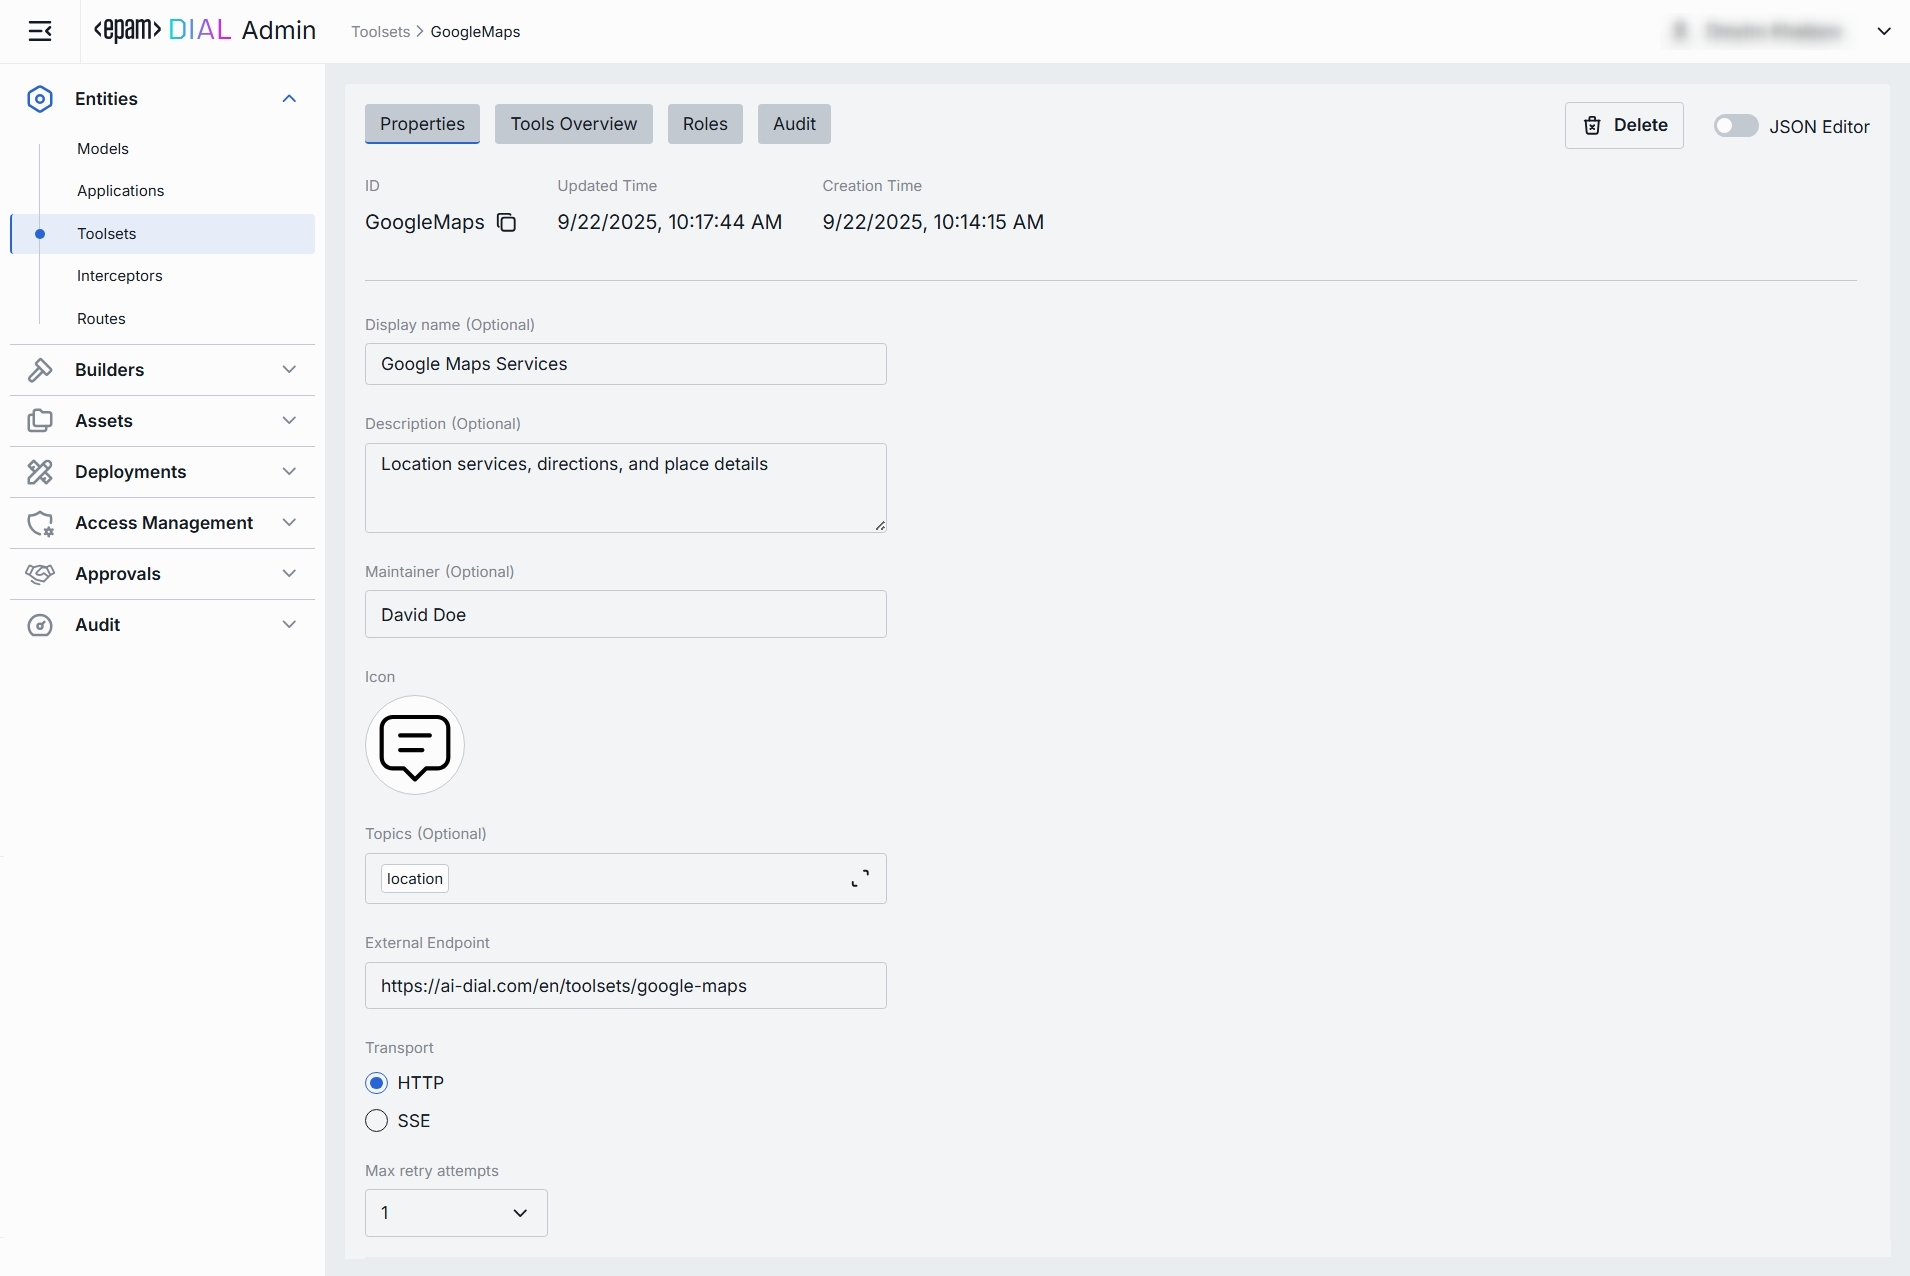
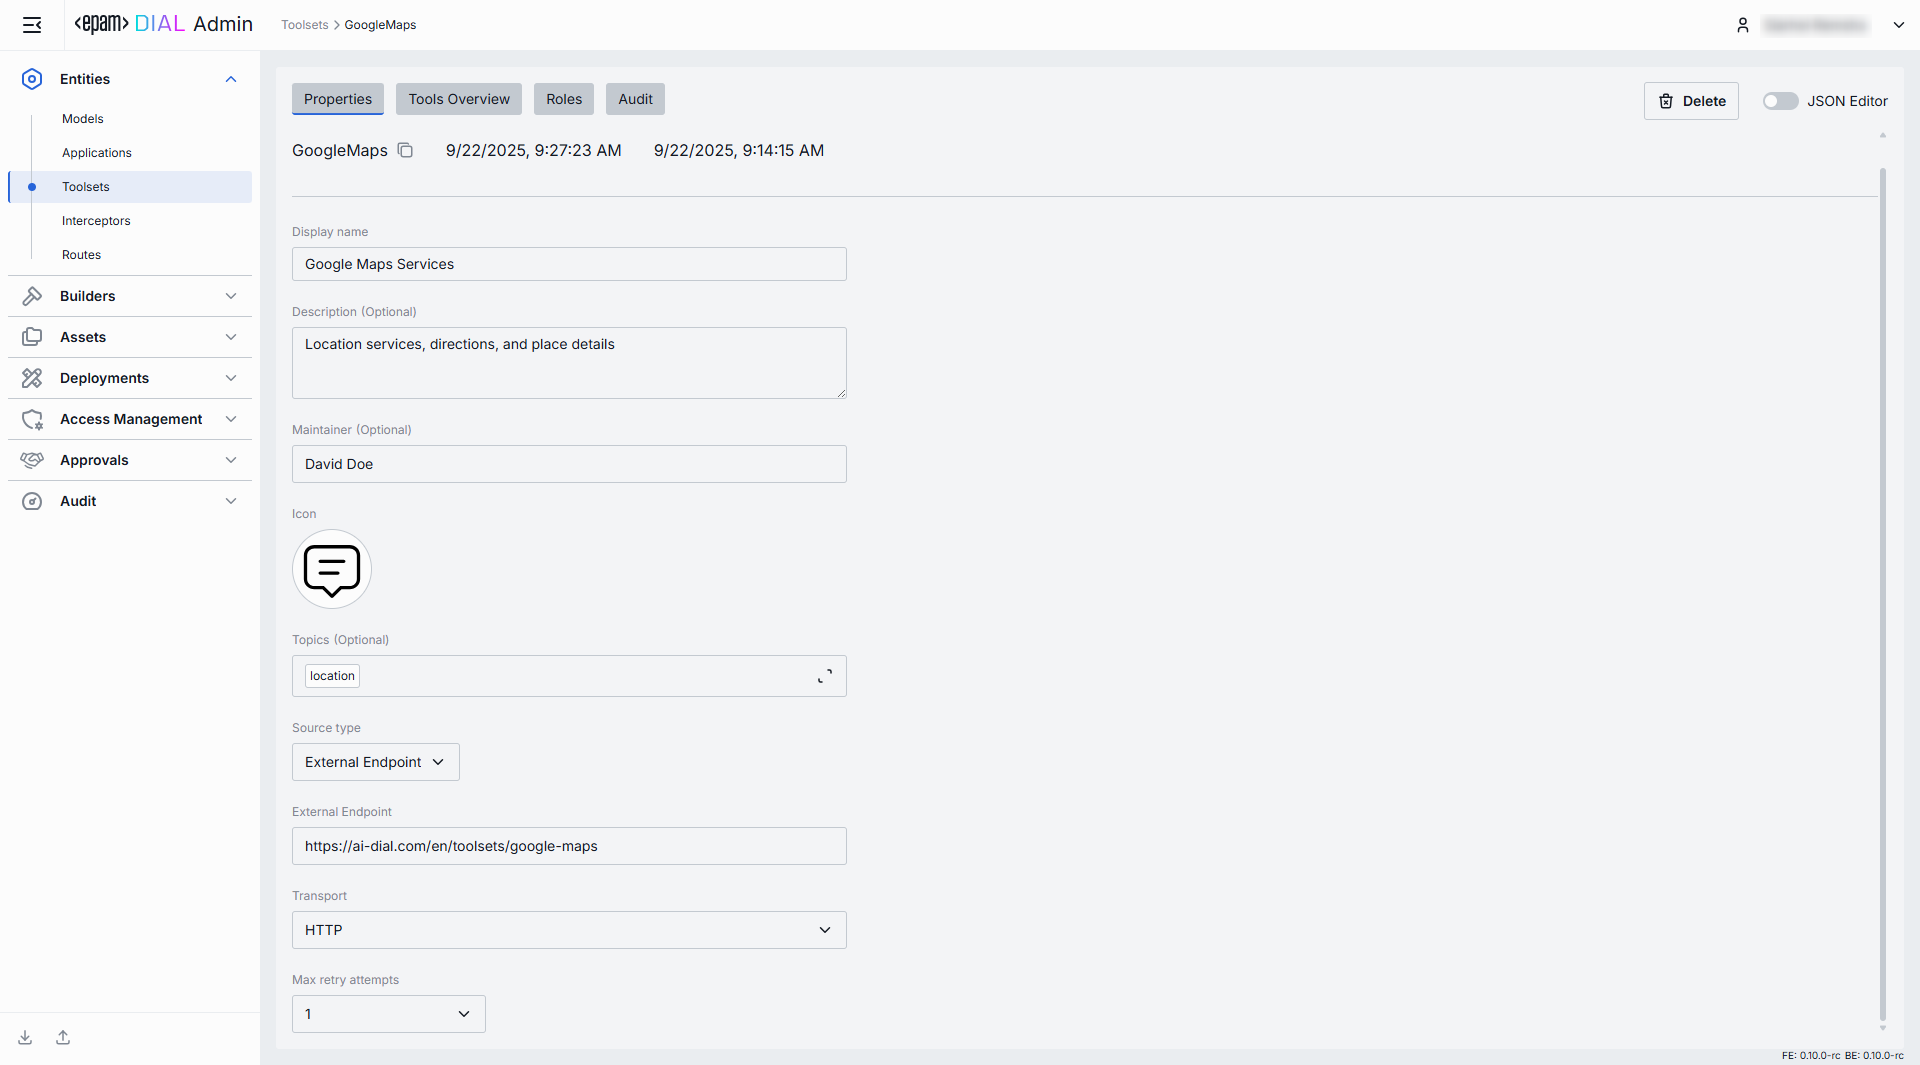
review toolsets

diff --git a/docs/tutorials/3.admin/entities-toolsets.md b/docs/tutorials/3.admin/entities-toolsets.md
@@ -2,26 +2,26 @@
 
 ## About Toolsets
 
-Toolsets allow your apps to interact with external services to perform specific actions. 
-This feature enables your QuickApps to call external functions and services, enhancing their capabilities and enabling more complex workflows.
+Toolsets allow applications to interact with external services (such MCP servers and REST APIs) to perform specific actions. 
 
-> Refer to the [QuickApps Configuration](/docs/tutorials/1.developers/4.apps-development/5.quick-app-configuration.md) page for more details on apps configuration.
+> Refer to the [QuickApps Configuration](/docs/tutorials/1.developers/4.apps-development/5.quick-app-configuration.md) page for more details on Quick Apps configuration and available toolsets.
 
-## Toolsets List
+## Toolsets Main Screen
 
-On the **Toolsets** page, you can find all toolsets existing in your DIAL instance. Here you can view, filter, and add new toolset definitions.
-
+On the **Toolsets** main screen, you can find all toolsets existing in your DIAL instance. Here you can view, filter, and add new toolset definitions.
 
 ![](img/109.png)
 
 ##### Toolsets grid
 
-| Field                     | Definition                                                                                                                                               |
-|---------------------------|----------------------------------------------------------------------------------------------------------------------------------------------------------|
-| **ID**                    | This is a unique key under the toolsets section of DIAL Admin.                                                                                           |
-| **Display Name**          | A user-friendly label for a toolset (e.g. GitHub, Google Maps).                                                                                          |
-| **Description**           | Free-text notes about this toolset’s purpose, capabilities, or any other relevant details.                                                               |
-| **Author**                | Contains the tools author's name.                                                                                                                        |
+| Field                     | Definition|
+|---------------------------|-------|
+| **ID**                    | This is a unique key under the toolsets section of DIAL Admin.                                          |
+| **Display Name**          | A user-friendly label for a toolset (e.g. GitHub, Google Maps).                                         |
+| **Description**           | Free-text notes about this toolset’s purpose, capabilities, or any other relevant details.              |
+|**Source Type**|A source type of the toolset: either MCP deployment or Endpoint.|
+|**Source**|For MCP source Type, enter a container ID. For Endpoint - enter a URL of the external endpoint.|
+| **Author**                | Contains the tools author's name.                      |
 | **Topics**                | Tags or categories (e.g. "finance," "support") you can assign for discovery, filtering, or grouping. Helps end users and admins find the right toolset.  |
 
 ## Create Toolset
@@ -29,16 +29,18 @@ On the **Toolsets** page, you can find all toolsets existing in your DIAL instan
 1. Click **+ Create** to invoke a **Create Toolset** modal.
 2. Define parameters:
 
-| Field             | Required | Definition & Guidance                                                                                                 |
-|-------------------|----------|-----------------------------------------------------------------------------------------------------------------------|
-| **ID**            | Yes      | This is a unique key under the toolsets section of DIAL Admin.                                                        |
-| **Display Name**  | No       | A user-friendly label shown across the UI (e.g. GitHub, Google Maps).                                                 |
-| **Description**   | No       | Free-text note about the this toolset’s purpose, capabilities, or any other relevant details.                         |
-| **Base Endpoint** | Yes      | Root endpoint of the toolset. This allows applications and LLMs to interact with its tools by invoking this endpoint. |
+    | Field | Required | Definition & Guidance  |
+    |-------------------|----------|--------------|
+    | **ID**            | Yes      | This is a unique key under the toolsets section of DIAL Admin.       |
+    | **Display Name**  | No       | A user-friendly label shown across the UI (e.g. GitHub, Google Maps).|
+    | **Description**   | No       | Free-text note about the this toolset’s purpose, capabilities, or any other relevant details.                         |
+    |**Source Type**|Yes|Choose between MCP and External Endpoint.|
+    | **External Endpoint** | Conditional      | External endpoint of the REST API. Applies for External Endpoint source types. |
+    | **Container** | Conditional      | MCP server container ID. Applies for MCP deployment source types. |
 
 3. Click **Create** to close the dialog and open the [configuration screen](#toolset-configuration). When done with toolset configuration, click **Save**. It may take some time for the changes to take effect after saving.
 
-![](img/110.png)
+    ![](img/110.png)
 
 ## Toolset Configuration
 
@@ -62,18 +64,20 @@ In the **Properties** tab, you can view and edit main definitions and settings f
 
 ##### Basic Identification and Information
 
-| Field                   | Required | Description                                                                                                                               |
+| Field                   | Required | Description                             |
 |-------------------------|----------|-------------------------------------------------------------------------------------------------------------------------------------------|
-| **ID**                  | -        | This is a unique key under the toolsets section of DIAL Admin.                                                                            |
-| **Updated Time**        | -        | Date and time when the toolset's configuration was last updated.                                                                          |
-| **Creation Time**       | -        | Date and time when the toolset's configuration was created.                                                                               |
-| **Display Name**        | No       | A user-friendly label shown across the UI (e.g. GitHub, Google Maps).                                                                     |
+| **ID**                  | -        | This is a unique key under the toolsets section of DIAL Admin.                           |
+| **Updated Time**        | -        | Date and time when the toolset's configuration was last updated.                         |
+| **Creation Time**       | -        | Date and time when the toolset's configuration was created.                              |
+| **Display Name**        | No       | A user-friendly label shown across the UI (e.g. GitHub, Google Maps).                    |
 | **Description**         | No       | Free-text note about the this toolset’s purpose, capabilities, or any other relevant details.                                             |
-| **Maintainer**          | No       | Field used to specify the responsible person overseeing the toolset’s configuration.                                                      |
-| **Icon**                | No       | A logo to visually distinguish toolsets in the UI.                                                                                        |
+| **Maintainer**          | No       | Field used to specify the responsible person overseeing the toolset’s configuration.     |
+| **Icon**                | No       | A logo to visually distinguish toolsets in the UI.                                       |
 | **Topics**              | No       | A tag that associates a toolsets with one or more topics or categories (e.g. "finance", "support").                                       |
-| **External Endpoint**   | Yes      | Root endpoint of the toolset. This allows applications and LLMs to interact with its tools by invoking this endpoint.                     |
-| **Transport**           | Yes      | Default HTTP; choose SSE for server-sent events when supported.                                                                           |
+|**Source Type**|Yes|The source type of the selected toolset: MCP or External Endpoint.|
+| **External Endpoint**   | Conditional      | Root endpoint of the toolset. This allows applications and LLMs to interact with its tools by invoking this endpoint.                     |
+|**Container**|Conditional|MCP server container ID. Applies for MCP deployment source types.|
+| **Transport**           | Yes      | Default HTTP; choose SSE for server-sent events when supported.                          |
 | **Max retry attempts**  | Yes      | Number of times DIAL Core will [retry](/docs/platform/3.core/5.load-balancer.md#fallbacks) a failed call (due to timeouts or 5xx errors). |
 
 
@@ -116,17 +120,17 @@ In the **Roles** tab, you can define user groups that are authorized to use a sp
 
 ##### Roles grid
 
-| Column                | Description & Guidance                                                                                                                                                                                                                                                                                                                                                                                                                |
+| Column                | Description & Guidance        |
 |-----------------------|---------------------------------------------------------------------------------------------------------------------------------------------------------------------------------------------------------------------------------------------------------------------------------------------------------------------------------------------------------------------------------------------------------------------------------------|
-| **ID**                | A unique role's identifier                                                                                                                                                                                                                                                                                                                                                                                                            |
-| **Display Name**      | A role's name.                                                                                                                                                                                                                                                                                                                                                                                                                        |
-| **Description**       | A user-friendly explanation of the role’s purpose (e.g., "DIAL Prompt Engineering Team").                                                                                                                                                                                                                                                                                                                                             |
-| **Tokens per minute** | Per Minute tokens limit for a specific role. Blank = no limits. Inherits the [default value](#default-rate-limits). Can be overridden.                                                                                                                                                                                                                                                                                                |
-| **Tokens per day**    | Daily tokens limit for a specific role. Blank = no limits. Inherits the [default value](#default-rate-limits). Can be overridden.                                                                                                                                                                                                                                                                                                     |
-| **Tokens per week**   | Weekly tokens limit for a specific role. Blank = no limits. Inherits the [default value](#default-rate-limits). Can be overridden.                                                                                                                                                                                                                                                                                                    |
-| **Tokens per month**  | Monthly tokens limit for a specific role. Blank = no limits. Inherits the [default value](#default-rate-limits). Can be overridden.                                                                                                                                                                                                                                                                                                   |
-| **Expiration time**   | TTL (Time To Live) of the invitation link to a shared resource.                                                                                                                                                                                                                                                                                                                                                                       |
-| **Max users**         | The maximum number of users who can accept a shared resource.                                                                                                                                                                                                                                                                                                                                                                         |
+| **ID**                | A unique role's identifier    |
+| **Display Name**      | A role's name.                |
+| **Description**       | A user-friendly explanation of the role’s purpose (e.g., "DIAL Prompt Engineering Team").                                       |
+| **Tokens per minute** | Per Minute tokens limit for a specific role. Blank = no limits. Inherits the [default value](#default-rate-limits). Can be overridden.                                           |
+| **Tokens per day**    | Daily tokens limit for a specific role. Blank = no limits. Inherits the [default value](#default-rate-limits). Can be overridden.                                                |
+| **Tokens per week**   | Weekly tokens limit for a specific role. Blank = no limits. Inherits the [default value](#default-rate-limits). Can be overridden.                                               |
+| **Tokens per month**  | Monthly tokens limit for a specific role. Blank = no limits. Inherits the [default value](#default-rate-limits). Can be overridden.                                              |
+| **Expiration time**   | TTL (Time To Live) of the invitation link to a shared resource.                |
+| **Max users**         | The maximum number of users who can accept a shared resource.                  |
 | **Actions**           | Additional role-specific actions. <br /> When **Make available to specific roles** toggle is off - opens the [Roles](/docs/tutorials/3.admin/access-management-roles.md) section in a new tab. <br /> When **Make available to specific roles** toggle is on, you can open the [Roles](/docs/tutorials/3.admin/access-management-roles.md) section in a new tab, set **no limits** or  [remove](#remove-role) the role from the list. |
 
 #### Set Rate Limits
@@ -143,7 +147,7 @@ The grid on the Roles screen lists the roles that can access a specific toolset.
 
 Default limits are set for all roles in the **Roles** grid by default; however you can override them as needed.
 
-| Field                         | Description                                                                             |
+| Field                         | Description                            |
 |-------------------------------|-----------------------------------------------------------------------------------------|
 | **Default tokens per minute** | The maximum tokens any user can consume per minute unless a specific limit is in place. |
 | **Default tokens per day**    | The maximum tokens any user can consume per day unless a specific limit is in place.    |
@@ -191,7 +195,7 @@ This section mimics the functionality available in the global [Audit → Activit
 
 ##### Activities List Table
 
-| **Field**         | **Definition**                                                               |
+| **Field**         | **Definition**              |
 | ----------------- |------------------------------------------------------------------------------|
 | **Activity type** | The type of action performed  (e.g., Create, Update, Delete).                |
 | **Time**          | Timestamp indicating when the activity occurred.                             |
@@ -206,13 +210,13 @@ The Activity Details view provides a detailed snapshot of a specific change made
 
 To open Activity Details, click on the three-dot menu (⋮) at the end of a row in the Activities grid and select “View Details”.
 
-| **Element/Section** | **Description**                                                                                                                                             |
+| **Element/Section** | **Description**                                           |
 |---------------------|-------------------------------------------------------------------------------------------------------------------------------------------------------------|
-| **Activity type**   | Type of the change performed (e.g., Update, Create, Delete).                                                                                                |
-| **Time**            | Timestamp of the change.                                                                                                                                    |
-| **Initiated**       | Identifier of the user who made the change.                                                                                                                 |
-| **Activity ID**     | Unique identifier for the specific activity tracking.                                                                                                       |
-| **View**            | Dropdown to switch between showing all parameter or changed only.                                                                                           |
+| **Activity type**   | Type of the change performed (e.g., Update, Create, Delete).                                               |
+| **Time**            | Timestamp of the change.                                  |
+| **Initiated**       | Identifier of the user who made the change.               |
+| **Activity ID**     | Unique identifier for the specific activity tracking.     |
+| **View**            | Dropdown to switch between showing all parameter or changed only.                                          |
 | **Parameters Diff** | Side-by-side comparison of toolset fields values before and after the change. Color-coding is used to indicate the operation type (Update, Create, Delete). |
 
 
